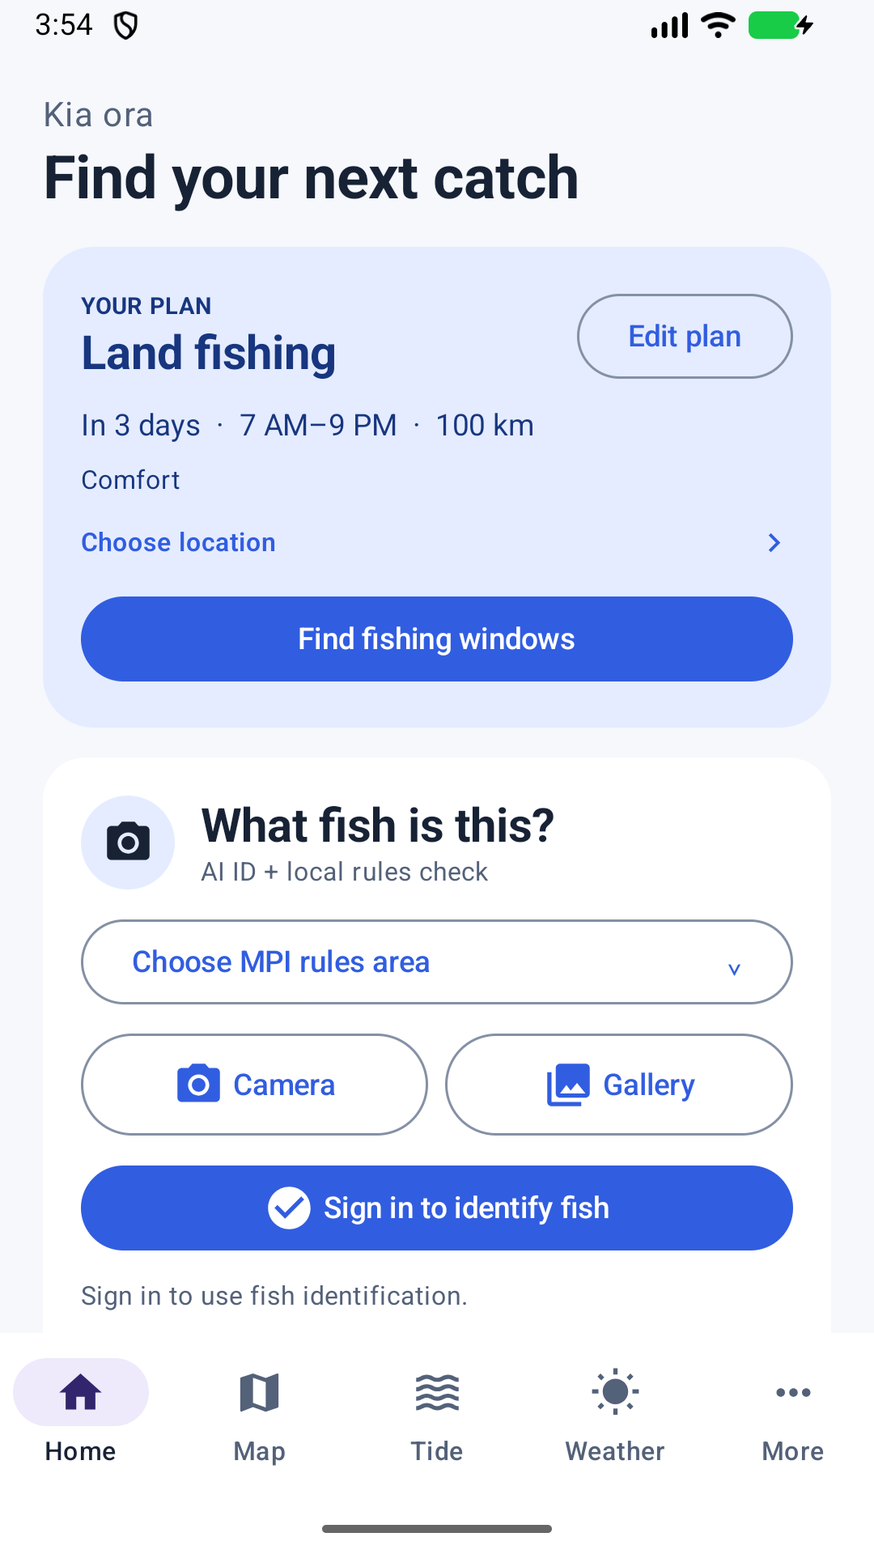
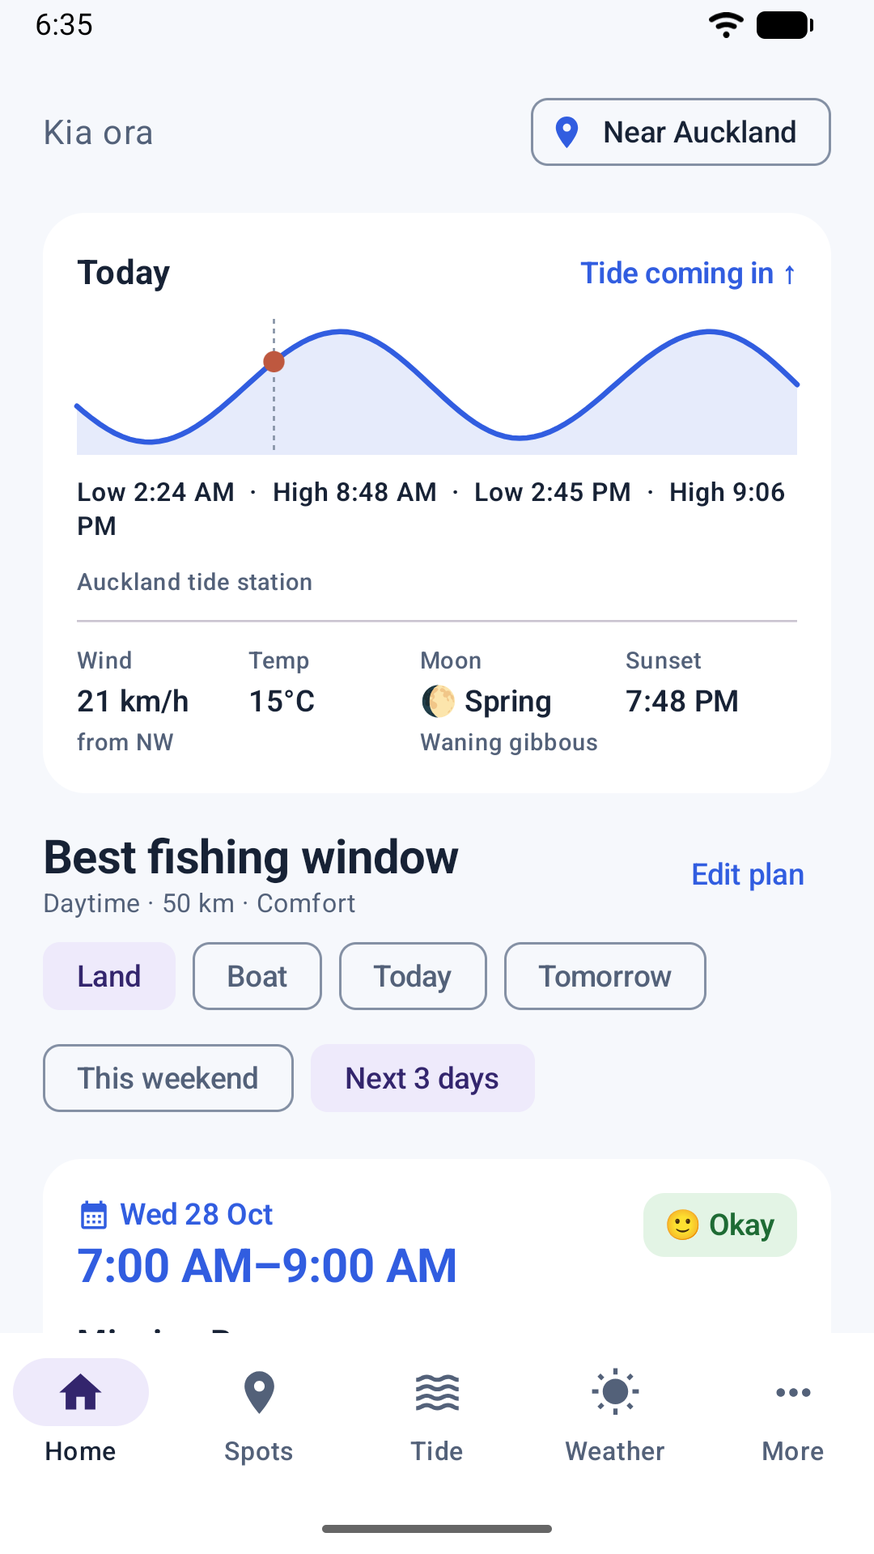
Google Play: 1.0.57 sent for review, new store listing, Android share links (1.0.58)
The first production release (45, 1.0.44) is live. Update 58 (1.0.57) and a new
store listing (short and full description, six new phone screenshots) were sent
for Google review on 27 October. Point ANDROID_DOWNLOAD_URL at the Play page and
add the Play app signing key to ANDROID_CERT_SHA256; deploy the API to apply.

diff --git a/docs/google-play-release.md b/docs/google-play-release.md
@@ -4,15 +4,48 @@ Reviewed 6 October 2026 against the Android app, shared API, deployed provider s
 
 ## Current status
 
-**First production release sent for review on 24 October 2026; waiting for Google.** Production access was granted (applied for on 22 October, see [Production access application](#production-access-application-on-22-october-2026)). The production release is version **45 (1.0.44)**, built locally from commit `847615d` with the upload key: unit tests, release lint, the 64-bit/16 KB check and `jarsigner` passed, and Play accepted it (API 26+, target SDK 37, 19.6 MB for new installs). It targets **all 178 countries and regions plus rest of world**, as a **full rollout**, with managed publishing **off**, so it goes live as soon as Google approves it. Play listed only the optional missing deobfuscation-file and native debug symbol warnings. Release name `45 (1.0.44)`; en-AU release notes:
+**Live on Google Play since 27 October 2026; update 58 (1.0.57) and a new store listing sent for review the same day.**
+Google approved the first production release, **45 (1.0.44)**, which became available in all 178 countries and regions
+at 5:18 AM on 27 October.
+
+The update is version **58 (1.0.57)**, built locally from commit `37cc8e2` with the upload key: 185 unit tests, release
+lint, the 64-bit/16 KB check and `jarsigner` passed. Play accepted it (API 26+, target SDK 37, 20.2 MB for new
+installs, 4.97 MB as an update, no devices dropped) and listed only the usual optional missing deobfuscation-file and
+native debug symbol warnings. It replaces 45 as a **full rollout** to all targeted countries, release name
+`58 (1.0.57)`, managed publishing **off**, so it goes live as soon as Google approves it. en-AU release notes:
+
+> What's new:
+> • New Home: today's tide curve, wind, moon and sunset, and the best fishing window found for you
+> • Spots tab with a map and a nearest-first list, boat ramps, wharves and breakwaters
+> • Fishing rules redesigned with species pictures, size bars and Check my catch, saved for use with no signal
+> • Tides widget now draws the tide curve
+> • Simpler account page and first-launch setup
+
+The same submission changes the default (en-AU) store listing: the short and full descriptions in
+[`assets/google-play/listing.md`](../assets/google-play/listing.md) (the full description now covers the features
+added since October and says usage statistics are on after a notice, instead of "off by default"), and six new phone
+screenshots replacing the two from version 0.1. Four screenshots of at least 1080 px are Google's minimum for
+promotion. The AI asset declaration labels the icon and the Fishing rules screenshot (see the listing file). The app
+name, icon, feature graphic, category, countries and Data safety answers are unchanged.
+
+The 34 MB bundle is larger than the Chrome extension's 10 MB upload limit. This time it was split into four pieces
+under 10 MB, passed into the release page and joined there; the joined file's SHA-256 matched the built bundle before it
+went to Play's own upload field. Dragging the file from Finder into the release form also works.
+
+With the app live, `ANDROID_DOWNLOAD_URL` now points at the Play page and Google's app signing key is in
+`ANDROID_CERT_SHA256` (`server/fishial-proxy/wrangler.toml`, see [share-fishing-window.md](share-fishing-window.md)).
+**Deploy the API** for shared-window pages to show the Play button and for Play-installed copies to open shared links.
+The next Play upload needs a version code above 58.
+
+### First production release (24 October 2026)
+
+Production access was granted (applied for on 22 October, see [Production access application](#production-access-application-on-22-october-2026)). The production release is version **45 (1.0.44)**, built locally from commit `847615d` with the upload key: unit tests, release lint, the 64-bit/16 KB check and `jarsigner` passed, and Play accepted it (API 26+, target SDK 37, 19.6 MB for new installs). It targets **all 178 countries and regions plus rest of world**, as a **full rollout**, with managed publishing **off**, so it goes live as soon as Google approves it. Play listed only the optional missing deobfuscation-file and native debug symbol warnings. Release name `45 (1.0.44)`; en-AU release notes:
 
 > First public release of Fishdays - NZ.
 >
 > Plan fishing days around New Zealand with suggested fishing windows for beaches, rocks, wharves and boats, official LINZ tides, weather and swell, MPI size and bag limits, marine reserve warnings, boat ramps, fish identification, a catch log with size checks, offline use and a Tides home-screen widget.
 
 The saved Data safety answers already cover account sync: precise location and other user-generated content are declared as optional and collected for app functionality, with account deletion, so they were left unchanged. Play Console's App content page had no outstanding declarations. Google says reviews are typically completed within 7 days. Adding production countries also updates open testing, which shares country targeting with production; closed testing stays **Active**. The bundle was larger than the browser extension's 10 MB file limit, so the publisher dragged it into the release form.
-
-After the app is live: set `ANDROID_DOWNLOAD_URL` to the Play page and add Play's app signing key SHA-256 to `ANDROID_CERT_SHA256` (see [Verification and remaining release work](#verification-and-remaining-release-work)), then deploy the API.
 
 All initial Play setup tasks are saved, including reviewer sign-in details, target audience and Data safety. The target audience declaration is **18 and over**. The Advertising ID declaration is saved as **No**. A signed version-code-1 bundle was rebuilt from the current source, validated locally and **accepted by Google Play**. The New Zealand-only Alpha closed test release `0.1 - NZ closed test` and 13 other changes were submitted on 6 October 2026. The supporting service, account-deletion migration and five-per-day identification migration were deployed on 6 October 2026.
 
@@ -28,7 +61,7 @@ All initial Play setup tasks are saved, including reviewer sign-in details, targ
 | Credentials and networking | Session and OAuth preferences excluded from backup/device transfer. Cleartext network traffic disabled. |
 | Analytics | Our own anonymous usage statistics are **on by default** after a one-time in-app notice ("Keep sharing" / "Turn off"); nothing is sent before it is answered, and an earlier off choice stays off. They send allowlisted behaviour events and a random install id with device model, Android version, app version, language and time zone to our API, signed in or not. Turning them off in More → Settings → Terms & privacy erases the server copy and resets the id. Google Analytics (Firebase) is a separate switch and stays **off unless turned on**. Analytics events, device records and API request counts are kept 90 days, account service events 90 days, feedback 365 days, with daily cleanup. |
 | Government information | In-app independence disclaimer and official MPI source links; include the same explanation in the listing below. |
-| Store artwork | 512 px RGBA icon, 1024×500 RGB feature graphic, and two actual 1080×1920 RGB screenshots under `assets/google-play`. |
+| Store artwork | 512 px RGBA icon, 1024×500 RGB feature graphic, and six actual 1080×1920 RGB phone screenshots of 1.0.57 under `assets/google-play`. |
 
 Sources: [target API](https://developer.android.com/google/play/requirements/target-sdk), [16 KB compatibility](https://developer.android.com/guide/practices/page-sizes), [user data](https://support.google.com/googleplay/android-developer/answer/10144311), [account deletion](https://support.google.com/googleplay/android-developer/answer/13327111), [government information](https://support.google.com/googleplay/android-developer/answer/9514050), [store assets](https://support.google.com/googleplay/android-developer/answer/9866151).
 
@@ -137,8 +170,8 @@ The saved declaration does not mark data as shared under Google's exemptions: Cl
 
 ## Verification and remaining release work
 
-**Shared-window links.** To make links from **Share this window** open the app on Android, add Play's *app signing key* SHA-256 (Play Console → your app → App signing) to `ANDROID_CERT_SHA256` in `server/fishial-proxy/wrangler.toml` and deploy the API; the upload key is already listed. Set `ANDROID_DOWNLOAD_URL` to the Play page when the app is public. See [share-fishing-window.md](share-fishing-window.md).
+**Shared-window links.** To make links from **Share this window** open the app on Android, add Play's *app signing key* SHA-256 (Play Console → your app → App signing) to `ANDROID_CERT_SHA256` in `server/fishial-proxy/wrangler.toml` and deploy the API; the upload key is already listed. Set `ANDROID_DOWNLOAD_URL` to the Play page when the app is public. Both were set in 1.0.58; deploy the API. See [share-fishing-window.md](share-fishing-window.md).
 
 Local verification: 73 Android unit tests passed on 6 October; Android release lint has 0 errors (existing warnings remain); the iOS simulator build and backend tests passed in earlier work; the shared API TypeScript check passed. The signed release AAB passes `jarsigner`, bundletool validation, packaged 64-bit and 16 KB checks. The Android emulator shows the current app, and the publisher reports successful reviewer-account creation and email confirmation. Account-deletion tests use real local D1 and simulated email delivery. Production deletion mail, provider consent screens, signed-in Android deletion/photo-consent flows and Play review have not been verified live.
 
-The More → Share row sends the app's Play URL (`https://play.google.com/store/apps/details?id=nz.fishingnz.app`), which only opens for the public once the app is published to production; until then it works for opted-in testers only. Production access was granted and the first production release (45, 1.0.44) was sent for Google's app review on 24 October 2026 (see [Current status](#current-status)); the next Play upload needs a version code above 45. Verify live deletion and provider-held data deletion. Back up the private upload key and local signing configuration securely. Existing branding and provider-use findings remain in `docs/legal-risk-review.md`. This preparation does not establish brand clearance or Google approval.
+The More → Share row sends the app's Play URL (`https://play.google.com/store/apps/details?id=nz.fishingnz.app`), which is public since the app went live on 27 October 2026. Production access was granted and the first production release (45, 1.0.44) went live on 27 October 2026, and update 58 (1.0.57) was sent for review the same day (see [Current status](#current-status)); the next Play upload needs a version code above 58. Verify live deletion and provider-held data deletion. Back up the private upload key and local signing configuration securely. Existing branding and provider-use findings remain in `docs/legal-risk-review.md`. This preparation does not establish brand clearance or Google approval.

diff --git a/assets/google-play/listing.md b/assets/google-play/listing.md
@@ -8,7 +8,7 @@
 
 **Support email:** tc199558@gmail.com
 
-**Short description:** Plan NZ fishing trips with tides, weather, fishing spots and rule summaries
+**Short description:** Plan NZ fishing days: tides, weather, fishing windows, spots and bag limits
 
 **Privacy policy URL (deploy before use):** https://fishing.fishnz.space/privacy
 
@@ -16,31 +16,61 @@
 
 ## Full description
 
-Plan your next fishing day around New Zealand with tides, weather and places to fish.
+Plan your next fishing day around New Zealand with tides, weather, fishing spots and size and bag limits in one free app.
 
-Fishdays - NZ helps land and boat anglers compare fishing areas and suggested two-hour windows. Choose a town or use your current location, set your travel distance and pick dates and preferred hours. Suggestions explain the forecast conditions and show relevant weather and sea-condition warnings.
+FIND A FISHING WINDOW
+Tell Fishdays - NZ whether you fish from land or a boat and where you are. Home shows today's tide curve, wind, temperature, the moon and sunset, then finds the best two-hour fishing window near you for today, tomorrow, this weekend or the next three days. Each window shows the wind, tide and rain, with warnings for gusts, rain, swell and cold. Share a window with friends in one tap.
 
-Explore a map of named fishing spots, check conditions for a place, compare hourly and daily weather, and keep a shortlist while planning. See official LINZ high and low tide predictions, then explore the estimated tide curve between those events.
+SPOTS, RAMPS AND WHARVES
+Browse named fishing spots on a map or in a list, nearest first. Boat mode shows public boat ramps; land mode shows wharves, breakwaters and groynes. Marine reserves and other no-fishing areas are marked, with a warning when a spot is in or near one.
 
-Choose an MPI fishing area and search species for rule summaries, with links to the official information. Users who create an account can also take or select a photo for an AI fish-species suggestion. You choose whether to send each photo to OpenAI through the Fishdays - NZ service. Results include uncertainty guidance and can be reported inside the app.
+TIDES
+See official high and low tide times and heights for the nearest tide station, and slide across the estimated tide curve between them. The Tides home-screen widget shows the curve, the next tide, the moon and the wind.
 
-Location and camera access are optional. Choose places manually or use the system photo picker. Core planning, maps, tides and rules work without an account. Optional usage analytics is off by default. Manage your profile or delete your account in the app; the public account-deletion page also works without installing it.
+SIZE AND BAG LIMITS
+Choose your MPI fishing area to see minimum sizes and daily limits for finfish, sharks and rays, shellfish and crayfish, with pictures of each species. Check my catch compares a length with the minimum size. The rules are kept on your phone for when there's no signal.
+
+CATCH LOG AND TRIPS
+Log each catch with its length, a photo and notes. The app checks the length against your area's minimum and records the tide, wind, waves and moon at the time. Save spots and plan trips: the forecast, tides and rules are saved for use offline, the app checks the forecast again before you go, and Tell someone shares your plan and back-by time.
+
+WHAT FISH IS THIS?
+Signed in, take or choose a photo for an AI species suggestion with the matching rules, up to five a day. You choose whether to send each photo, which goes to OpenAI through the Fishdays - NZ service. Results include uncertainty guidance and can be reported in the app.
+
+WEATHER
+Current conditions, an hourly outlook and up to 16 days of forecasts for your location or saved places.
+
+PRIVACY
+Location, camera and notifications are optional: choose places by hand or use the system photo picker. Planning, maps, tides and rules work without an account. An optional account syncs trips and the catch log between your devices. Anonymous usage statistics are explained when you first open the app and can be turned off in Settings. Delete your account in the app or on our website.
 
 Fishdays - NZ is an independent app and is not affiliated with or endorsed by the New Zealand Government, Fisheries New Zealand, MPI or LINZ.
 
-Official fishing-rule source:
+Official fishing rules:
 https://www.mpi.govt.nz/fishing-aquaculture/recreational-fishing/fishing-rules/
 
-Official tide-prediction source:
+Official tide predictions:
 https://www.linz.govt.nz/products-services/tides-and-tidal-streams/tide-predictions
 
-Forecasts use Open-Meteo. A marked fishing spot does not guarantee public access or permission to fish. Suggested windows do not guarantee a safe trip or a catch. Tide heights between published events are estimates, and weather can change actual water levels. AI fish identification and cached rule summaries can be wrong or out of date. Always confirm the species, exact fishing area, current official rules, local restrictions and marine warnings before fishing or keeping a catch.
+Forecasts use Open-Meteo. A marked fishing spot does not guarantee public access or permission to fish. Suggested windows do not guarantee a safe trip or a catch. Tide heights between published events are estimates, and weather can change actual water levels. AI fish identification and saved rule summaries can be wrong or out of date. Always confirm the species, exact fishing area, current official rules, local restrictions and marine warnings before fishing or keeping a catch.
 
 ## Artwork and accessibility descriptions
 
 - `icon-512.png`: 512×512, 32-bit PNG with opaque alpha; exported from existing brand artwork. Resolve brand rights before publication.
 - `feature-graphic-1024x500.png`: 1024×500, RGB PNG. Alt text: “Fishdays - NZ helps plan a fishing day around tides, weather and places to fish.”
-- `phone-1.png`: Actual Android home screen, 1080×1920 RGB PNG. Alt text: “Set a land or boat fishing plan and choose a photo for fish identification.”
-- `phone-2.png`: Actual Android map screen, 1080×1920 RGB PNG. Alt text: “Explore named fishing spots on a New Zealand map with source attribution.”
+- `phone-1.png` to `phone-6.png`: the current phone screenshots, 1080×1920 RGB PNGs, in Play's order:
+  1. Home. Alt text: “Today's tide curve, wind, moon and sunset, and the best fishing window near you.”
+  2. Best fishing window. Alt text: “A two-hour fishing window with wind, tide, rain and a cold warning.”
+  3. Spots map. Alt text: “Fishing spots and no-fishing areas on a map around Auckland.”
+  4. Fishing rules. Alt text: “Snapper minimum size and daily limit with a size bar and species picture.”
+  5. Tide curve. Alt text: “Estimated tide curve with the time now marked and the official highs and lows.”
+  6. Weather. Alt text: “Current forecast and the next 24 hours for your location.”
 
-These screenshots are captured from the app, without invented results or added device frames. The existing icon originated from an ImageGen-assisted design; make any AI-asset declaration requested by Play Console accurately. The feature graphic is drawn directly from the included SVG. Refresh screenshots when the interface changes.
+The screenshots were taken on 27 October 2026 from the signed 1.0.57 (58) release build on a 1080×1920, 420 dpi
+Android 37.1 emulator (AVD `FishdaysPlay`), with the location set to Auckland and live forecasts, tides and rules,
+without invented results or added device frames. The status bar uses Android's demo mode (clock set to the real
+time, full battery and Wi-Fi). Refresh them when the interface changes: `node` with `web/node_modules/sharp`
+removes the alpha channel, as `tools/export_google_play_assets.cjs` does.
+
+**AI asset declaration.** Play Console's store listing asks which assets were generated or edited with AI. Labelled:
+the app icon (it began as an ImageGen concept, see `assets/branding/README.md`) and screenshot 4, whose species
+pictures were drawn with an image model (see `docs/data-sources.md`). Not labelled: the feature graphic (drawn from
+the included SVG) and the other screenshots. Keep this accurate when assets change.

diff --git a/docs/share-fishing-window.md b/docs/share-fishing-window.md
@@ -15,10 +15,11 @@ What people share is a **short link**, `https://fishing.fishnz.space/w/k3F9xQ2m`
 
 How a short link is made: tapping **Share this window** sends the window to `POST /v1/share`. The Worker keeps it for **60 days** and answers with an 8-character id. The button shows "Creating link…" for a moment. If the service can't be reached (offline, timeout), the app shares a **long link** instead, `/w/<whole window>`, which is about 800 characters but needs no server storage. Both kinds open the same page and the same app screen, so sharing never fails because of the network.
 
-## Until the apps are published
+## Store links
 
-- The **Download for iPhone / Android** buttons show `href="#"`, are greyed and say "link coming soon". Set the two real links (below) and they become normal buttons.
-- iPhone team `8T7835869S` and App Store ID `6820858116` are configured as of 1.0.20; deploy the API and install the App Store/TestFlight build to verify Universal Links. Android still needs Google's Play app-signing certificate.
+- A **Download for iPhone / Android** button whose link is unset (`href="#"`) is greyed and says "link coming soon"; with a real link it is a normal button.
+- iPhone team `8T7835869S` and App Store ID `6820858116` are configured as of 1.0.20; deploy the API and install the App Store/TestFlight build to verify Universal Links.
+- Android is configured as of 1.0.58: the Play page and Google's Play app-signing certificate are set. They take effect when the API is deployed.
 
 ## One-time setup (nothing here can be done without your accounts)
 
@@ -42,13 +43,11 @@ Values that are not `https://` links, a 10-character Team ID or a 32-byte colon-
 
 ### Android
 
-`ANDROID_CERT_SHA256` already holds the **Play upload key** (`37:B7:79:…:74:59:F6`), which signs bundles built locally and by the *Android Play* workflow. Copies installed from Google Play are re-signed with Google's **app signing key**, a different certificate:
+`ANDROID_CERT_SHA256` holds the **Play upload key** (`37:B7:79:…:74:59:F6`), which signs bundles built locally and by the *Android Play* workflow, then Google's **app signing key** (`0C:47:2C:…:80:AB:0A`), which re-signs copies installed from Google Play. The second was copied on 27 October 2026 from Play Console → Protected with Play → **App signing**, where the page's Digital Asset Links snippet lists the same fingerprint. If Google's key changes (a key upgrade), add the new fingerprint the same way and deploy.
 
-1. In Play Console open your app's **App signing** page (under Test and release) and copy the **SHA-256 certificate fingerprint** under "App signing key certificate".
-2. Append it to `ANDROID_CERT_SHA256` (comma-separated) and deploy.
-3. Check: `curl https://fishing.fishnz.space/.well-known/assetlinks.json`, then on a phone with the app, `adb shell pm get-app-links nz.fishingnz.app` should show `fishing.fishnz.space: verified`.
+Check after deploying: `curl https://fishing.fishnz.space/.well-known/assetlinks.json`, then on a phone with the Play copy of the app, `adb shell pm get-app-links nz.fishingnz.app` should show `fishing.fishnz.space: verified`.
 
-Without step 2, links from Play-installed copies open in the browser (Android 12 and later do not hand unverified links to apps), so the page's **Open in app** button is how people get into the app.
+Without the app signing key, links from Play-installed copies open in the browser (Android 12 and later do not hand unverified links to apps), so the page's **Open in app** button is how people get into the app.
 
 ## The link format
 

diff --git a/CHANGELOG.md b/CHANGELOG.md
@@ -1,5 +1,20 @@
 # Changelog
 
+## 1.0.58 — 2026-10-27 (build code 59)
+
+- **Live on Google Play, update sent for review.** The first production release, 45 (1.0.44), went live on
+  27 October. The same day **58 (1.0.57)** was sent for Google's review as a full rollout with new release notes:
+  Home, Spots, redesigned rules, the Tides widget curve and the simpler account page. No app code changed in 1.0.58.
+- **New Google Play store listing** (in review with the update). Short description "Plan NZ fishing days: tides,
+  weather, fishing windows, spots and bag limits". The full description covers the features added since October and
+  now says usage statistics are on after a one-time notice instead of "off by default". Six new phone screenshots of
+  1.0.57 (Home, Best fishing window, Spots, Fishing rules, Tide curve, Weather) replace the two from version 0.1,
+  taken on a new 1080×1920 Android emulator with live Auckland data. The icon and the Fishing rules screenshot are
+  labelled as AI-assisted. `assets/google-play/listing.md` and `docs/google-play-release.md` record it all.
+- **Shared-window links on Android.** `ANDROID_DOWNLOAD_URL` now points at the Play page, and Google's Play app signing
+  key is added to `ANDROID_CERT_SHA256`, so the shared-window page shows a working Android button and Play-installed
+  copies can open `/w/` links directly. Takes effect when the API is deployed.
+
 ## 1.0.57 — 2026-10-26 (build code 58)
 
 - **CMS charts show the biggest numbers.** Ranked charts (feature usage, API calls by type, screens, events, app

diff --git a/README.md b/README.md
@@ -2,7 +2,7 @@
 
 **Plan your next fishing trip around New Zealand.**
 
-Current project version: **1.0.57 (build code 58)**. The original code is preserved
+Current project version: **1.0.58 (build code 59)**. The original code is preserved
 at Git tag `v1.0.0`. For each future change or commit, run
 `python3 tools/version.py bump`, update [the changelog](CHANGELOG.md), and run
 `python3 tools/version.py check` before committing. See [the version policy](AGENTS.md).
